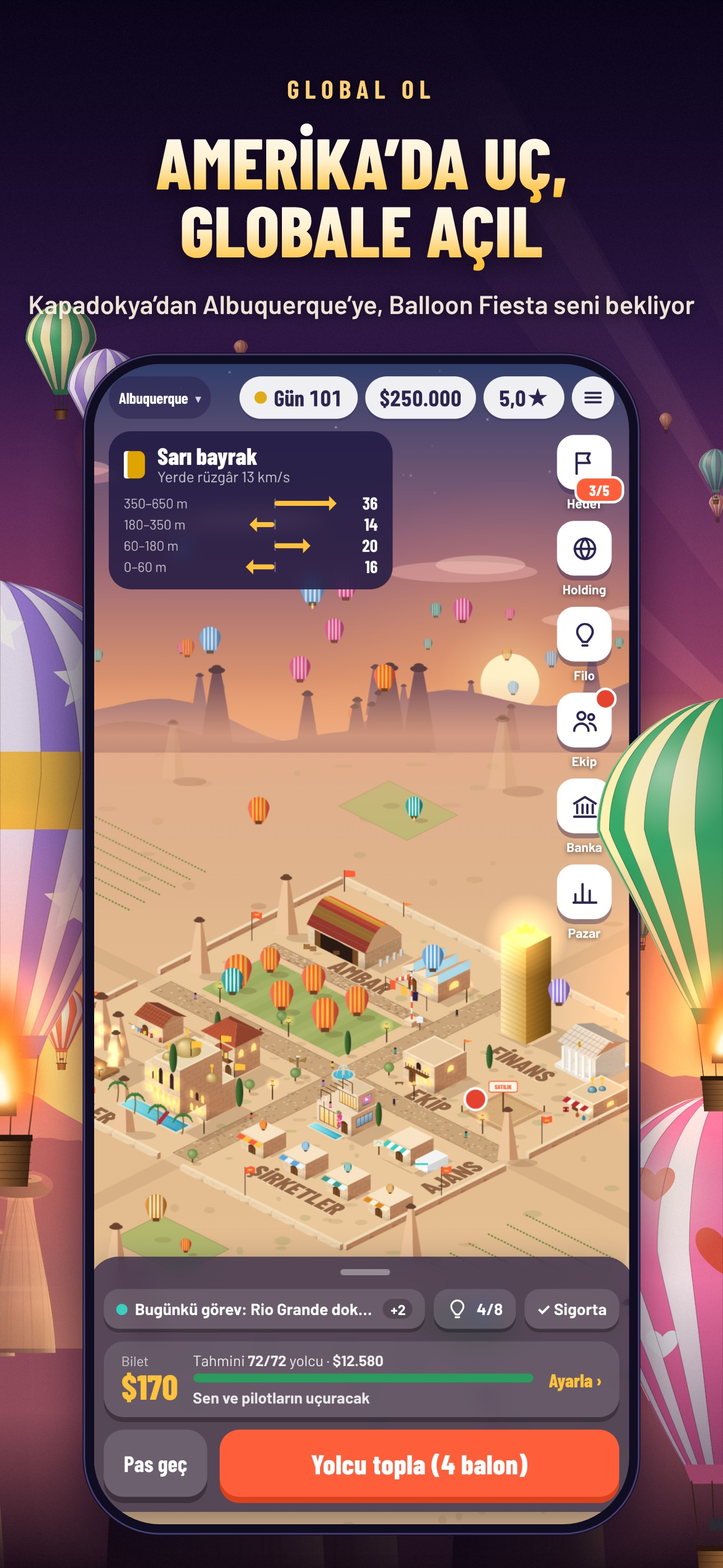
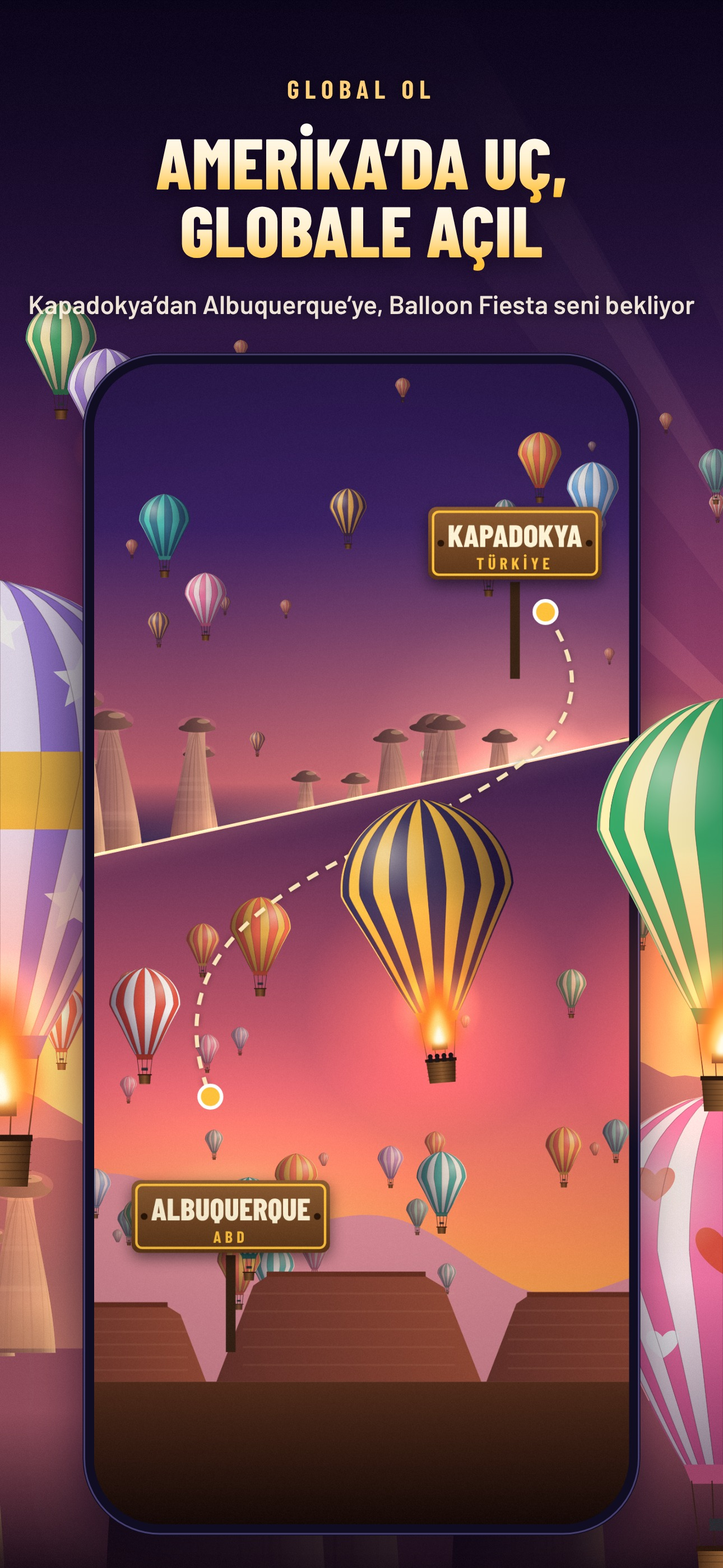
App Store screens (Turkish): the going-global phone shows a dream of the flight from Cappadocia to Albuquerque
render.html's Cappadocia-to-America picture without its text (?bare), cropped to fill the phone.

Claude-Session: https://claude.ai/code/session_01Q4aHnqhWNWzUa6kkjEn2hH

diff --git a/tools/appstore/panorama.html b/tools/appstore/panorama.html
@@ -26,13 +26,14 @@ const cv = document.getElementById('c'), ctx = cv.getContext('2d');
 const q = new URLSearchParams(location.search), lang = q.get('lang') || 'tr', raw = q.get('raw');
 
 /* In App Store order: the first three show in search results, so they carry the hook (build an empire, fly it
-   yourself, grow it into a holding); then going global, the night, and the rest. */
+   yourself, grow it into a holding); then going global, the night, and the rest. The going-global phone shows
+   render.html's Cappadocia-to-America picture, a dream of the journey rather than a game screen. */
 const T = {
   tr: [
     ['home', 'SICAK HAVA BALONU İMPARATORLUĞU', ['KAPADOKYA’DA BALON', 'İMPARATORLUĞU KUR'], 'Kasabanı büyüt, gökyüzünü balonlarınla doldur'],
     ['flight', 'GERÇEK UÇUŞ, GERÇEK RİSK', ['BRÜLÖRÜ YAK,', 'RÜZGÂRI OKU'], 'Doğru rüzgâr katmanını bul, kusursuz in'],
     ['holding', 'HOLDİNG PATRONU', ['BİR SEPETTEN', 'HOLDİNGE'], 'New York, İstanbul, Tokyo, Seul: ofislerini aç'],
-    ['abq', 'GLOBAL OL', ['AMERİKA’DA UÇ,', 'GLOBALE AÇIL'], 'Kapadokya’dan Albuquerque’ye, Balloon Fiesta seni bekliyor'],
+    ['abq-flight', 'GLOBAL OL', ['AMERİKA’DA UÇ,', 'GLOBALE AÇIL'], 'Kapadokya’dan Albuquerque’ye, Balloon Fiesta seni bekliyor', 520],
     ['night', 'GECE OLUNCA', ['KASABAN', 'IŞIL IŞIL'], 'Havai fişekler, fener alayı, ateş böcekleri'],
     ['design', 'TASARIM STÜDYOSU', ['BALONUNU', 'TASARLA'], 'Desenler, renkler, kalp ve yıldız balonlar'],
     ['collect', 'SABAH TELAŞI', ['YOLCULARINI', 'TOPLA'], 'Ofisinin önünde sıra, safari cipleri yolda'],
@@ -68,12 +69,14 @@ function big(b) {
     pattern: b.pattern, pc: b.pc, detail: true });
 }
 
-function phone(i, img) {
+/* `cut` (the fifth caption field) drops that much empty sky off the picture's top, filling the screen from there. */
+function phone(i, img, cut = 0) {
   const x = phoneX(i), bez = 20, rad = 118;
   ctx.save(); ctx.shadowColor = 'rgba(10,4,24,.6)'; ctx.shadowBlur = 80; ctx.shadowOffsetY = 34;
   ctx.fillStyle = '#100d22'; rrect(x - bez, PY - bez, SW + bez * 2, SH + bez * 2, rad + bez); ctx.fill(); ctx.restore();
   ctx.strokeStyle = '#463e6e'; ctx.lineWidth = 3; rrect(x - bez + 3, PY - bez + 3, SW + bez * 2 - 6, SH + bez * 2 - 6, rad + bez - 3); ctx.stroke();
-  ctx.save(); rrect(x, PY, SW, SH, rad); ctx.clip(); ctx.drawImage(img, x, PY, SW, SH); ctx.restore();
+  const sh = img.height - cut, sw = Math.min(img.width, sh * SW / SH);
+  ctx.save(); rrect(x, PY, SW, SH, rad); ctx.clip(); ctx.drawImage(img, (img.width - sw) / 2, cut, sw, sh, x, PY, SW, SH); ctx.restore();
 }
 
 function caption(i) {
@@ -105,7 +108,7 @@ Promise.all([document.fonts.load('800 100px BC'), document.fonts.load('700 40px 
     haze(H * .9, H, '#120814', 0, .9);
     BIG.filter(b => !b.front).forEach(big);
     grain(8); // before the game screens go on (they taint the canvas for reading)
-    imgs.forEach((im, i) => phone(i, im));
+    imgs.forEach((im, i) => phone(i, im, T[i][4]));
     BIG.filter(b => b.front).forEach(big);
     T.forEach((_, i) => caption(i));
     document.title = 'done';

diff --git a/tools/appstore/shots.js b/tools/appstore/shots.js
@@ -72,11 +72,6 @@ const only = process.argv[2];
     await load("S.barons = { cap: 160 }; S.holding = 486000; S.chapter = 4; S.hold = Object.assign({}, S.hold || {}, { hist: Array.from({ length: 14 }, (_, i) => ({ d: 88 + i, inc: 9000 + i * 900 + (i % 3) * 1500, exp: 4000 + (i % 4) * 700 })) });");
     await p.evaluate(() => openHQ()); await p.waitForTimeout(2600); await shot('holding');
   }
-  if (!only || only === 'abq') {
-    // Albuquerque during the Fiesta, a few weeks in: a desert town with a fleet of its own.
-    await load("S.barons = { cap: 160 }; S.chapter = 4; S.holding = 600000; enterRegion('abq'); S.cash = 250000; ['M','M','L','M','L','S','M'].forEach(z => addBalloon(z)); for (let i = 0; i < 7; i++) if (S.candidates.length) { S.pilots.push(S.candidates.shift()); } S.rep = 1.25; S.chapter = 1; S.bld = Object.assign({}, S.bld, { mast: 2, hangar: 2 }); S.fiesta = { start: S.day, end: S.day + 3 }; S.hezQ = []; S.nextEvent = 99999; S.eventDue = false; S.paper = null; assignPilots();");
-    await p.waitForTimeout(1500); await shot('abq');
-  }
   console.log('errors', errs);
   await br.close();
 })();

diff --git a/tools/appstore/render.html b/tools/appstore/render.html
@@ -22,6 +22,8 @@ canvas { display: block; }
 const cv = document.getElementById('c'), ctx = cv.getContext('2d');
 const slide = +(new URLSearchParams(location.search).get('s') || 1);
 const lang = new URLSearchParams(location.search).get('lang') || 'tr';
+/* bare: the picture alone, no headline or brand (panorama.js puts it inside a phone) */
+const bare = new URLSearchParams(location.search).has('bare');
 
 const T = {
   tr: {
@@ -204,9 +206,11 @@ function slide5() {
   signpost(A[0] - 60, A[1] - 40, T.signs[0][0], T.signs[0][1], .95);
   signpost(B[0] + 40, B[1] + 330, T.signs[1][0], T.signs[1][1], .95);
   vignette(.45);
-  headline(250, T.k[4], T.s5.slice(0, 2), { size: 160 });
-  subline(690, T.s5[2], 38);
-  brand(H - 120);
+  if (!bare) {
+    headline(250, T.k[4], T.s5.slice(0, 2), { size: 160 });
+    subline(690, T.s5[2], 38);
+    brand(H - 120);
+  }
   grain(9, 11);
 }
 

diff --git a/tools/appstore/panorama.js b/tools/appstore/panorama.js
@@ -12,6 +12,10 @@ const fs = require('fs');
   const p = await b.newPage({ viewport: { width: 1290, height: 2796 } });
   const errs = [];
   p.on('pageerror', e => errs.push(e.message));
+  // The going-global phone: render.html's Cappadocia-to-Albuquerque picture without its text.
+  await p.goto('file://' + path.join(__dirname, 'render.html') + `?s=5&lang=${lang}&bare`);
+  await p.waitForFunction(() => document.title === 'done', null, { timeout: 60000 });
+  await p.locator('#c').screenshot({ path: path.join(raw, 'raw-abq-flight.png') });
   await p.goto('file://' + path.join(__dirname, 'panorama.html') + `?lang=${lang}&raw=${encodeURIComponent('file://' + raw)}`);
   await p.waitForFunction(() => document.title === 'done' || document.title.startsWith('error'), null, { timeout: 180000 });
   const title = await p.title();
